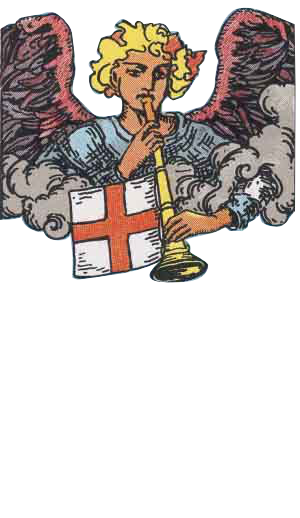
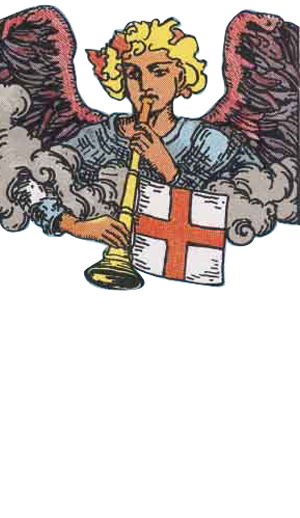
error modify

diff --git a/0_IE_Q2.html b/0_IE_Q2.html
@@ -17,11 +17,12 @@
         width : 500px;
         z-index: -2;
     }
-    .towerPerson{
-        width : 200%;
+    #tower1{
+        width : 1440px;
         position : absolute;
-        top: -170px;
+        top: -200px;
         right: -1000px;
+        
 
     }
     #tower1{
@@ -29,7 +30,7 @@
     }
     @keyframes dropping{
         0%{
-            transform: rotateX(30deg) translateY(-5%); 
+            transform: rotateX(40deg) translateY(-5%); 
         }
         100%{
             transform: rotateX(0) translateY(0);
@@ -50,10 +51,10 @@
         당신은 어떻게 행동할까요?    
     </h2>
     <input id="towerImg" type="image" src="tower0.jpg">
-    <input class= "towerPerson" id="tower1" type="image" src="tower1.png">
+    <input id="tower1" type="image" src="tower1.png">
     <div id = "answerBox">
-        <button class = "selectButton" type="button" onclick="location.href='0_IE_Q3.html'">얼른<br \>뛰어내려가<br \>살아<br \>남습니다.<br \></button>
-        <button class = "selectButton" type="button" onclick="location.href='1_E_NS_Q0.html'">구할<br \>사람은<br \>없는지<br \>주변을 먼저<br \>둘러봅니다.</button>
+        <button class = "selectButton" type="button" onclick="location.href='1_I_NS_Q0.html'">얼른<br \>뛰어내려가<br \>살아<br \>남습니다.<br \></button>
+        <button class = "selectButton" type="button" onclick="location.href='0_IE_Q3.html'">구할<br \>사람은<br \>없는지<br \>주변을 먼저<br \>둘러봅니다.</button>
     </div>
 </body>
 </html>

diff --git a/0_IE_Q1.html b/0_IE_Q1.html
@@ -17,11 +17,12 @@
         width : 500px;
         z-index: -2;
     }
-    .towerPerson{
-        width : 200%;
+    #tower1{
+        width : 1440px;
         position : absolute;
-        top: -170px;
+        top: -200px;
         right: -1000px;
+        
 
     }
     #tower1{
@@ -29,7 +30,7 @@
     }
     @keyframes dropping{
         0%{
-            transform: rotateX(30deg) translateY(-5%); 
+            transform: rotateX(40deg) translateY(-5%); 
         }
         100%{
             transform: rotateX(0) translateY(0);
@@ -50,7 +51,7 @@
         당신은 어떻게 행동할까요?    
     </h2>
     <input id="towerImg" type="image" src="tower0.jpg">
-    <input class= "towerPerson" id="tower1" type="image" src="tower1.png">
+    <input id="tower1" type="image" src="tower1.png">
     <div id = "answerBox">
         <button class = "selectButton" type="button" onclick="location.href='1_I_NS_Q0.html'">얼른<br \>뛰어내려가<br \>살아<br \>남습니다.<br \></button>
         <button class = "selectButton" type="button" onclick="location.href='0_IE_Q3.html'">구할<br \>사람은<br \>없는지<br \>주변을 먼저<br \>둘러봅니다.</button>

diff --git a/0_IE_Q3.html b/0_IE_Q3.html
@@ -9,17 +9,13 @@
     html{
         background-color: rgb(135,182,208);
     }
-    #questionBox{
-        position: absolute;
-        bottom:120px;
-        right: 30px;
-    }
+
     #imageSimbol{
         position: absolute;
-        right: 100px;
-        top:-100px;
+        
+        top:150px;
         z-index: -1;
-        width: 90%;
+        width: 600px;
     
         animation: comeDown 1s ease-out;
     }

diff --git a/index.html b/index.html
@@ -8,8 +8,8 @@
     <style>
 
         #cardBox{
-            width : 400px;
-            height : 85vh;
+            width : 350px;
+            height : 80vh;
             background-color: #FFFFFF;
             border: 2px solid #333333;
             position: absolute;
